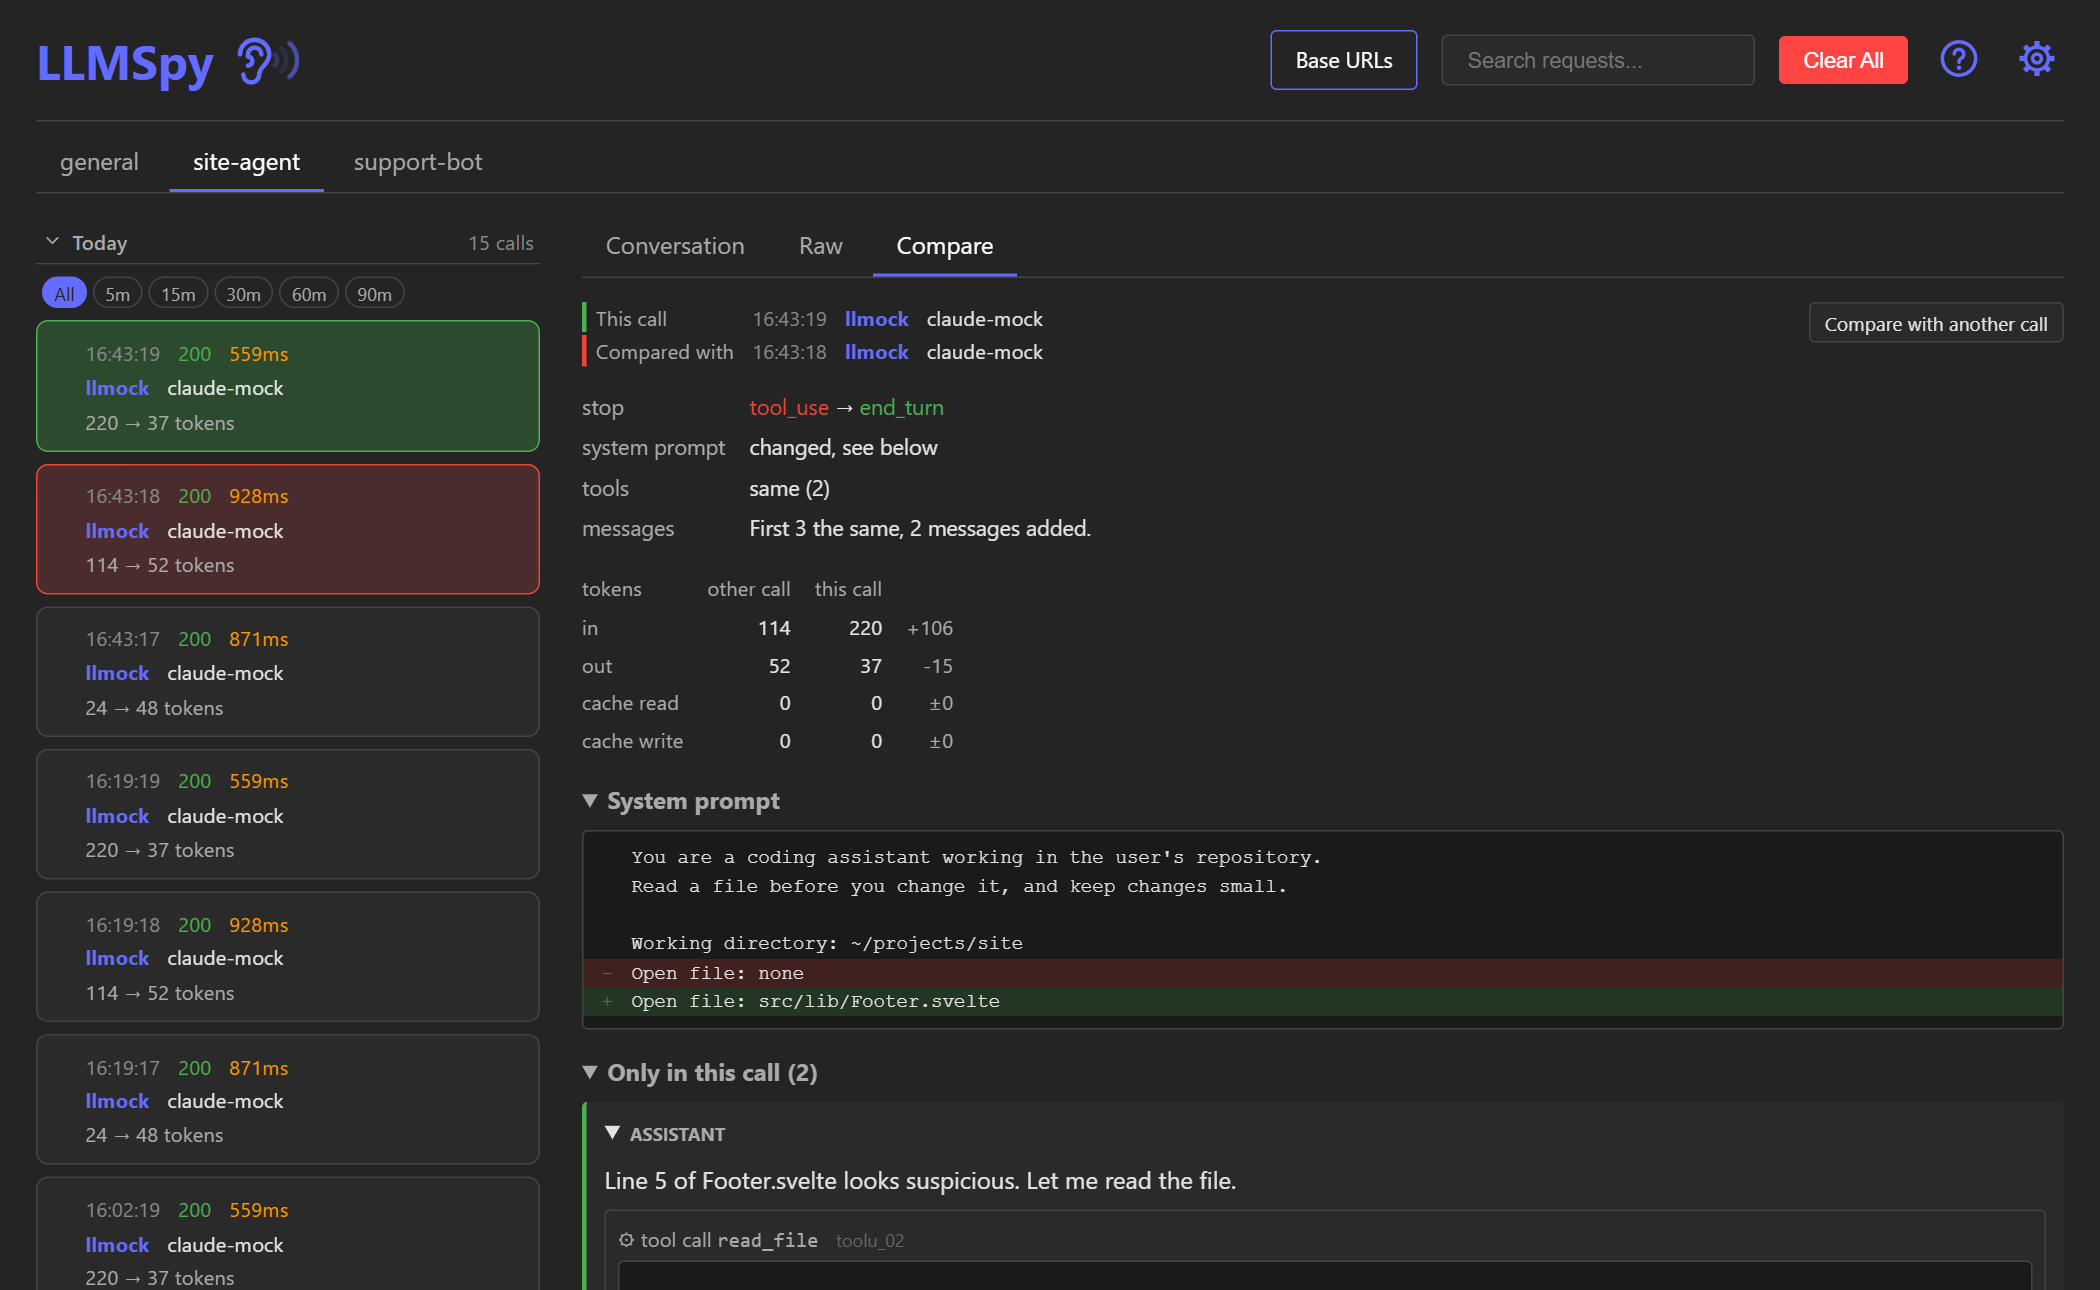
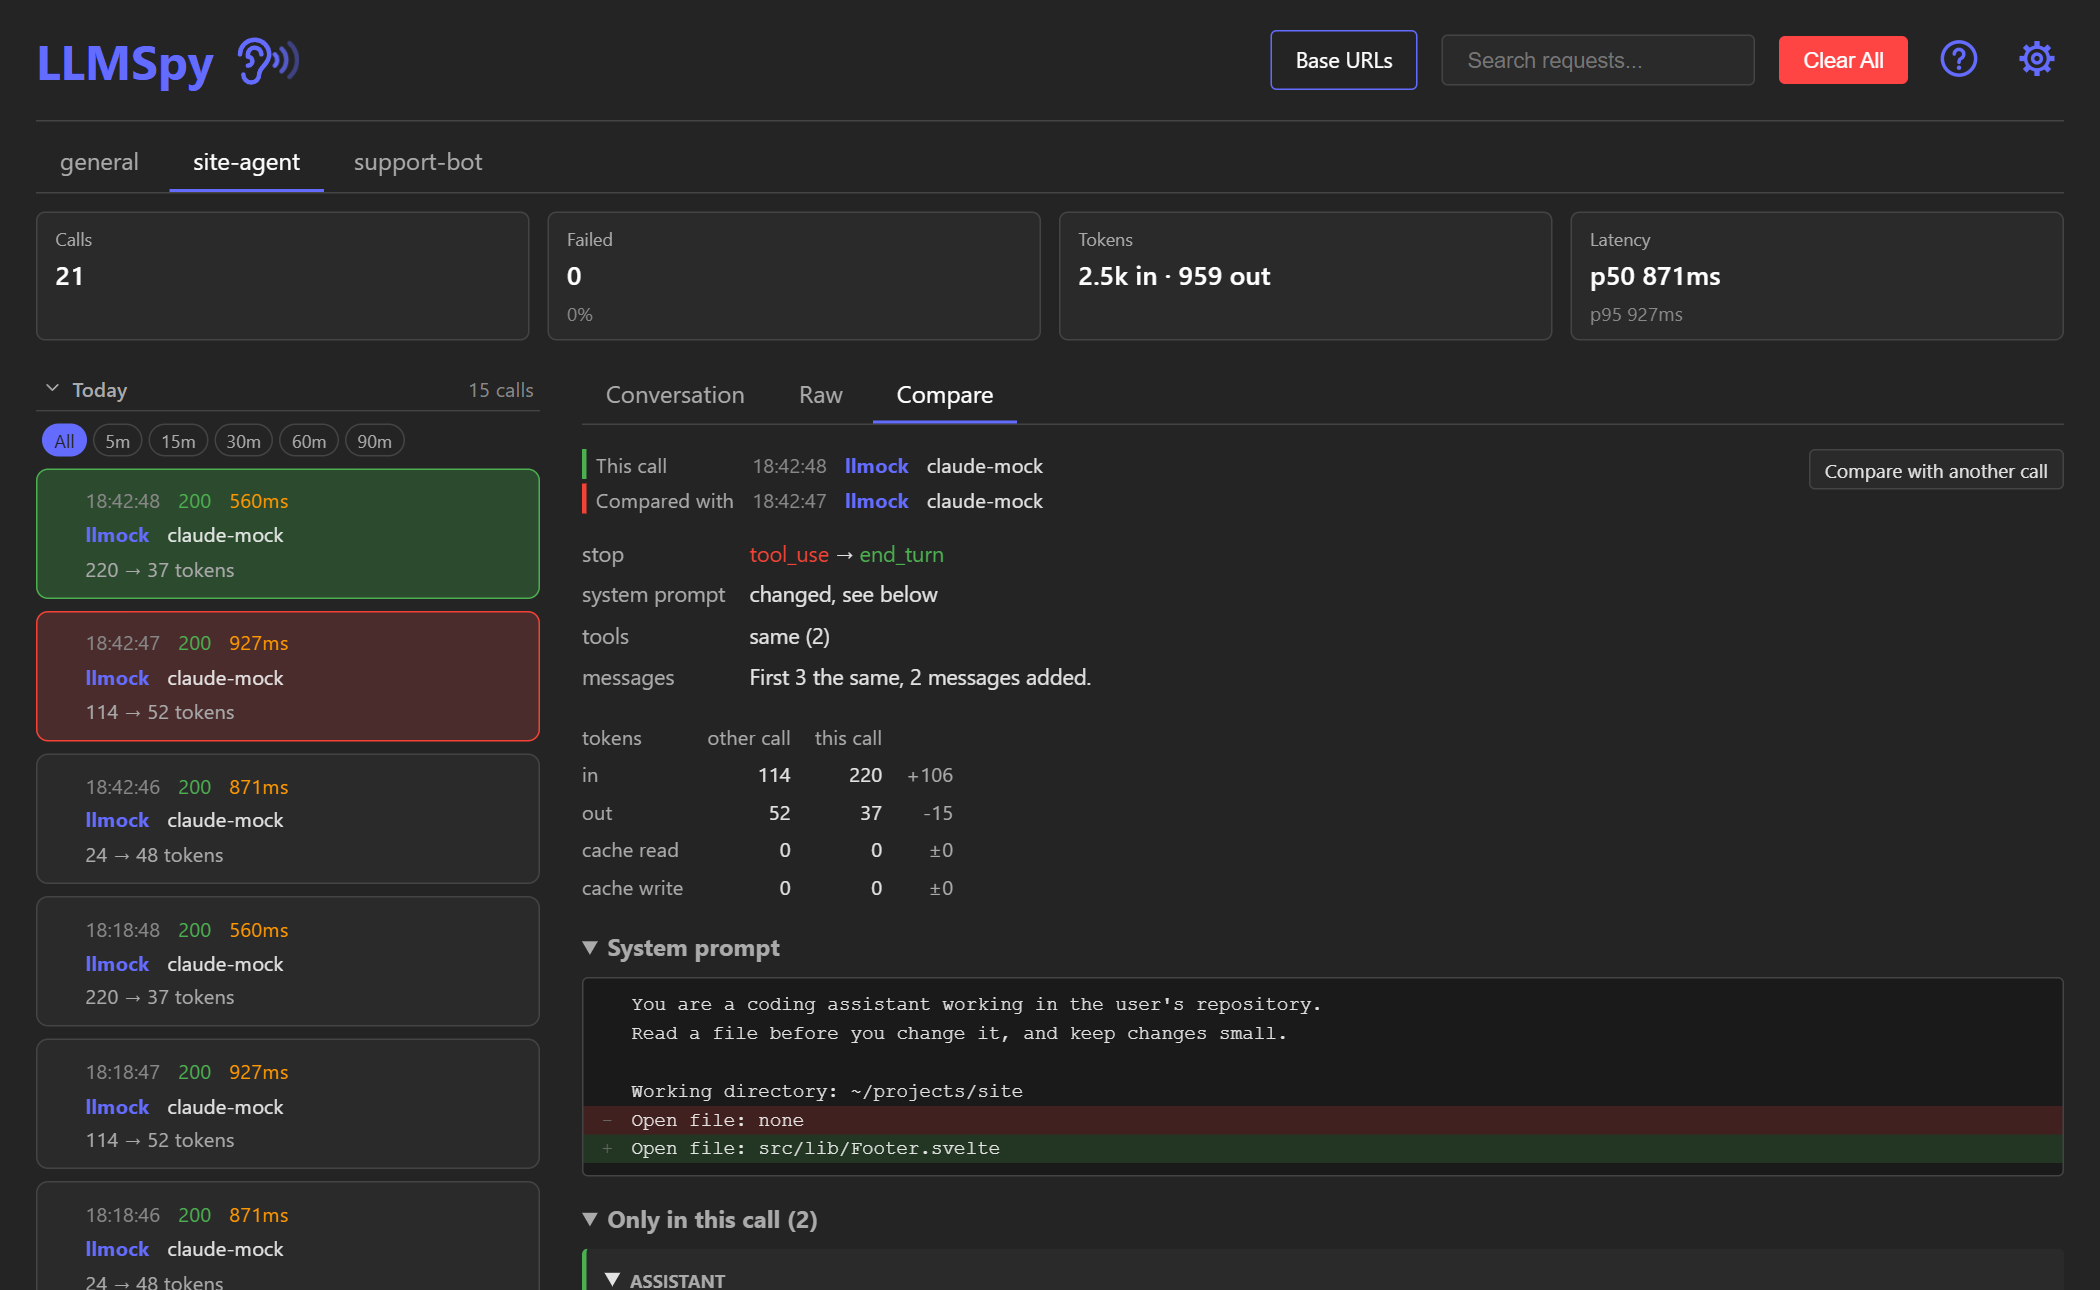
feat: show counts of the listed calls in cards
Four cards under the project tabs count the calls the list shows (the
project, narrowed by the search, the Failed chip and the minutes chips):
calls and how many are running, failed with their share, tokens in, out
and cached, and p50/p95 latency with the slowest in the tooltip. They are
worked out in the browser with the proxy's own toStats, so they update
with every call and agree with GET /api/stats.

formatTokens now shows millions as 2.5M. The README screenshots are
retaken with the cards, and cards.png is new.

diff --git a/ui/src/lib/stats.test.ts b/ui/src/lib/stats.test.ts
@@ -1,0 +1,93 @@
+import { describe, expect, it } from 'vitest';
+import type { CallStats } from '../../../proxy/src/stats.js';
+import { statsCards } from './stats.js';
+
+const none: CallStats = {
+	calls: 0,
+	running: 0,
+	failed: 0,
+	tokens: { input: 0, output: 0, cacheRead: 0, cacheWrite: 0 },
+	latencyMs: null,
+	byModel: {},
+	byProject: {},
+};
+
+const card = (stats: CallStats, label: string) =>
+	statsCards(stats).find((c) => c.label === label);
+
+describe('statsCards', () => {
+	it('shows Calls, Failed, Tokens and Latency in that order', () => {
+		expect(statsCards(none).map(({ label }) => label)).toEqual([
+			'Calls',
+			'Failed',
+			'Tokens',
+			'Latency',
+		]);
+	});
+
+	it('says how many calls are running, only when some are', () => {
+		expect(card(none, 'Calls')).toMatchObject({
+			value: '0',
+			detail: undefined,
+		});
+		expect(card({ ...none, calls: 4, running: 1 }, 'Calls')).toMatchObject({
+			value: '4',
+			detail: '1 running',
+		});
+	});
+
+	it('shows failed calls as a share, in the danger colour above 0', () => {
+		expect(card(none, 'Failed')).toMatchObject({
+			value: '0',
+			detail: undefined,
+			alert: false,
+		});
+		expect(card({ ...none, calls: 40, failed: 3 }, 'Failed')).toMatchObject(
+			{
+				value: '3',
+				detail: '8%',
+				alert: true,
+			},
+		);
+		expect(card({ ...none, calls: 500, failed: 1 }, 'Failed')?.detail).toBe(
+			'<1%',
+		);
+	});
+
+	it('shows cache tokens only when there are some', () => {
+		const tokens = {
+			input: 51_234,
+			output: 8400,
+			cacheRead: 0,
+			cacheWrite: 0,
+		};
+		expect(card({ ...none, tokens }, 'Tokens')).toMatchObject({
+			value: '51.2k in · 8.4k out',
+			detail: undefined,
+		});
+		expect(
+			card(
+				{
+					...none,
+					tokens: { ...tokens, cacheRead: 310_000, cacheWrite: 900 },
+				},
+				'Tokens',
+			)?.detail,
+		).toBe('310.0k cache read · 900 written');
+	});
+
+	it('shows p50 and p95, with the slowest in the tooltip, once a call has ended', () => {
+		expect(card(none, 'Latency')).toMatchObject({ value: '–' });
+		expect(
+			card(
+				{ ...none, latencyMs: { p50: 800, p95: 6400, max: 7100 } },
+				'Latency',
+			),
+		).toEqual({
+			label: 'Latency',
+			value: 'p50 800ms',
+			detail: 'p95 6.40s',
+			title: 'Of the calls that ended; the slowest took 7.10s',
+		});
+	});
+});

diff --git a/ui/src/lib/stats.ts b/ui/src/lib/stats.ts
@@ -1,0 +1,61 @@
+// The proxy's own counts, so the cards and `GET /api/stats` agree.
+import type { CallStats } from '../../../proxy/src/stats.js';
+import { formatLatency, formatTokens } from './format.js';
+
+/** One card above the panes. */
+export interface StatsCard {
+	label: string;
+	value: string;
+	/** A second, smaller line. */
+	detail?: string;
+	/** Tooltip. */
+	title?: string;
+	/** Shown in the danger colour. */
+	alert?: boolean;
+}
+
+/** The Calls, Failed, Tokens and Latency cards for `stats`. */
+export function statsCards(stats: CallStats): StatsCard[] {
+	const { calls, running, failed, tokens, latencyMs } = stats;
+	const cache = tokens.cacheRead > 0 || tokens.cacheWrite > 0;
+	return [
+		{
+			label: 'Calls',
+			value: String(calls),
+			detail: running > 0 ? `${running} running` : undefined,
+		},
+		{
+			label: 'Failed',
+			value: String(failed),
+			detail: calls > 0 ? percent(failed, calls) : undefined,
+			title: 'An error, a status of 400 or above, or an error in the reply',
+			alert: failed > 0,
+		},
+		{
+			label: 'Tokens',
+			value: `${formatTokens(tokens.input)} in · ${formatTokens(tokens.output)} out`,
+			detail: cache
+				? `${formatTokens(tokens.cacheRead)} cache read · ${formatTokens(tokens.cacheWrite)} written`
+				: undefined,
+			title: "Added up from what each reply reported. Anthropic's input leaves out cached tokens, OpenAI's includes them.",
+		},
+		latencyMs
+			? {
+					label: 'Latency',
+					value: `p50 ${formatLatency(latencyMs.p50)}`,
+					detail: `p95 ${formatLatency(latencyMs.p95)}`,
+					title: `Of the calls that ended; the slowest took ${formatLatency(latencyMs.max)}`,
+				}
+			: {
+					label: 'Latency',
+					value: '–',
+					title: 'Shown once a call has ended',
+				},
+	];
+}
+
+/** `3%`; `<1%` for a share above 0 that rounds to 0. */
+function percent(part: number, whole: number): string {
+	const share = Math.round((part / whole) * 100);
+	return share === 0 && part > 0 ? '<1%' : `${share}%`;
+}

diff --git a/ui/src/App.svelte b/ui/src/App.svelte
@@ -1,6 +1,8 @@
 <script lang="ts">
 import { onMount } from 'svelte';
 import { SvelteMap } from 'svelte/reactivity';
+// The proxy's own counts, so the cards and `GET /api/stats` agree.
+import { toStats } from '../../proxy/src/stats.js';
 import DayHeader from './DayHeader.svelte';
 import Detail from './Detail.svelte';
 import EmptyList from './EmptyList.svelte';
@@ -26,10 +28,12 @@ import {
 	isShown,
 	newestFirst,
 } from './lib/requests.js';
+import { statsCards } from './lib/stats.js';
 import type { CallSummary, Tab } from './lib/types.js';
 import ProjectTabs from './ProjectTabs.svelte';
 import RecentChips from './RecentChips.svelte';
 import RequestRow from './RequestRow.svelte';
+import StatsCards from './StatsCards.svelte';
 import Toolbar from './Toolbar.svelte';
 
 /** How long to wait before reopening `/events` after the browser gives up on it. */
@@ -227,6 +231,9 @@ const shownCalls = (group: DayGroup) =>
 	narrowing && recent !== undefined && group.key === today
 		? withinLast(group.calls, recent, recentNow)
 		: group.calls;
+// Every call in the list, in closed days too, for the cards above it.
+const listed = $derived(groups.flatMap(shownCalls));
+const cards = $derived(statsCards(toStats(listed)));
 
 onMount(() => {
 	let events: EventSource | undefined;
@@ -327,6 +334,7 @@ async function clearRequests() {
   matches={search ? matchCounts : undefined}
   onchoose={chooseProject}
 />
+<StatsCards shown={listed.length > 0} {cards} />
 
 <div class="panes">
   <section class="list" class:picking aria-label="Captured requests">

diff --git a/ui/src/app.css b/ui/src/app.css
@@ -802,6 +802,50 @@ body {
 	white-space: nowrap;
 }
 
+/* Calls, Failed, Tokens and Latency of the calls shown, under the tabs. */
+.stats-cards {
+	display: grid;
+	grid-template-columns: repeat(auto-fit, minmax(10rem, 1fr));
+	gap: 0.75rem;
+	padding-top: 0.75rem;
+}
+
+.stats-card {
+	display: flex;
+	flex-direction: column;
+	gap: 0.15rem;
+	padding: 0.5rem 0.75rem;
+	border: 1px solid var(--border);
+	border-radius: 6px;
+	background: var(--surface);
+}
+
+.stats-label {
+	font-size: 0.75rem;
+	color: var(--text-muted);
+}
+
+.stats-value {
+	font-size: 1.1rem;
+	font-weight: 600;
+	color: var(--text-strong);
+	font-variant-numeric: tabular-nums;
+}
+
+.stats-detail {
+	font-size: 0.8rem;
+	color: var(--text-faint);
+	font-variant-numeric: tabular-nums;
+}
+
+.stats-card.alert {
+	border-color: var(--danger);
+}
+
+.stats-card.alert .stats-value {
+	color: var(--danger);
+}
+
 /* New calls in a project you are not looking at. */
 .tab-badge {
 	display: inline-block;

diff --git a/ui/src/lib/format.test.ts b/ui/src/lib/format.test.ts
@@ -1,5 +1,5 @@
 import { describe, expect, it } from 'vitest';
-import { formatElapsed } from './format.js';
+import { formatElapsed, formatTokens } from './format.js';
 
 describe('formatElapsed', () => {
 	it('counts whole seconds under a minute', () => {
@@ -15,5 +15,19 @@ describe('formatElapsed', () => {
 
 	it('never goes below zero when the clocks disagree', () => {
 		expect(formatElapsed(-500)).toBe('0s');
+	});
+});
+
+describe('formatTokens', () => {
+	it('shows counts, thousands and millions', () => {
+		expect(formatTokens(999)).toBe('999');
+		expect(formatTokens(1234)).toBe('1.2k');
+		expect(formatTokens(999_949)).toBe('999.9k');
+		expect(formatTokens(999_950)).toBe('1.0M');
+		expect(formatTokens(2_500_000)).toBe('2.5M');
+	});
+
+	it('shows ? for a count not reported', () => {
+		expect(formatTokens(undefined)).toBe('?');
 	});
 });

diff --git a/ui/src/StatsCards.svelte b/ui/src/StatsCards.svelte
@@ -1,0 +1,27 @@
+<script lang="ts">
+// Above the panes: counts over the calls the list shows.
+import type { StatsCard } from './lib/stats.js';
+
+let {
+	shown,
+	cards,
+}: {
+	/** Hidden while the list is empty. */
+	shown: boolean;
+	cards: StatsCard[];
+} = $props();
+</script>
+
+{#if shown}
+<section class="stats-cards" aria-label="Counts over the calls shown">
+  {#each cards as card (card.label)}
+    <div class="stats-card" class:alert={card.alert} title={card.title}>
+      <span class="stats-label">{card.label}</span>
+      <span class="stats-value">{card.value}</span>
+      {#if card.detail}
+        <span class="stats-detail">{card.detail}</span>
+      {/if}
+    </div>
+  {/each}
+</section>
+{/if}

diff --git a/ui/src/lib/format.ts b/ui/src/lib/format.ts
@@ -14,10 +14,12 @@ export function formatElapsed(ms: number): string {
 	return `${Math.floor(seconds / 60)}m ${rest}s`;
 }
 
-/** `1234` -> `1.2k`; `?` when the provider did not report it. */
+/** `1234` -> `1.2k`, `2500000` -> `2.5M`; `?` when the provider did not report it. */
 export function formatTokens(count?: number): string {
 	if (count === undefined) return '?';
-	return count < 1000 ? `${count}` : `${(count / 1000).toFixed(1)}k`;
+	if (count < 1000) return `${count}`;
+	if (count < 999_950) return `${(count / 1000).toFixed(1)}k`;
+	return `${(count / 1_000_000).toFixed(1)}M`;
 }
 
 export function statusClass(status: number): string {

diff --git a/ui/src/HelpPopover.svelte b/ui/src/HelpPopover.svelte
@@ -71,6 +71,10 @@ const base = $derived(`${location.protocol}//${address ?? DEFAULT_ADDRESS}`);
         The red Failed chip shows only the calls that went wrong: an error,
         a status of 400 or above, or an error inside the reply.
       </li>
+      <li>
+        The cards at the top count the calls in the list: how many, how many
+        failed, their tokens and their latency.
+      </li>
       <li>API keys are masked. Prompts and replies are shown in full.</li>
       <li>
         Calls are kept in a file on your machine, so they survive a restart:

diff --git a/README.md b/README.md
@@ -48,6 +48,10 @@ When a project has calls that went wrong, a red **Failed** chip above the list c
 
 <img src="docs/screenshots/failed.png" width="300" alt="The Failed chip pressed: the list shows only the failed calls, two 429s, two errors in the stream and two dropped streams">
 
+Cards above the panes count the calls in the list as it is narrowed (by project, search, the Failed chip and the minutes chips): how many there are and how many are running, how many failed, their tokens in, out and cached, and their p50 and p95 latency. They update live, and agree with `GET /api/stats`.
+
+<img src="docs/screenshots/cards.png" alt="The cards above the panes for the general project: 54 calls, 18 failed (33%, in red), 990 tokens in and 996 out, latency p50 16ms and p95 801ms">
+
 Select a call to look at it three ways.
 
 **Conversation** (above) reads the call as the model sees it: the system prompt and tools, then each message by role, with tool calls matched to their results, and the reply at the end with its stop reason and token use. Streamed replies are put back together. LLMSpy reads the Anthropic Messages, OpenAI Chat Completions and OpenAI Responses formats.
